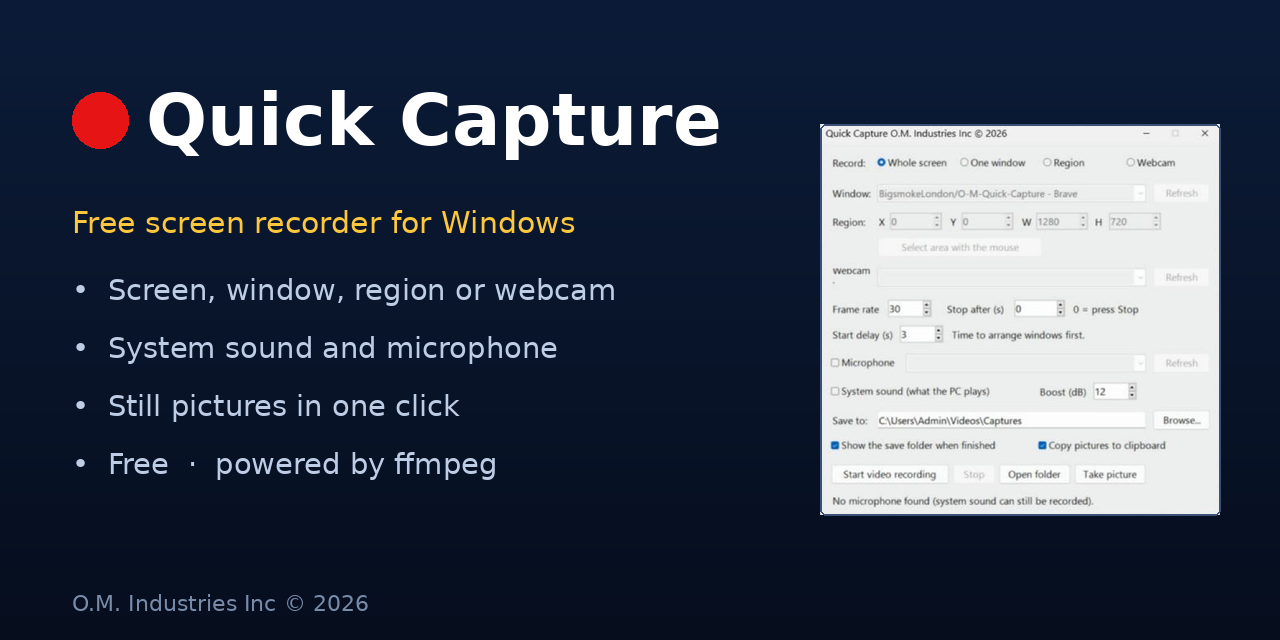
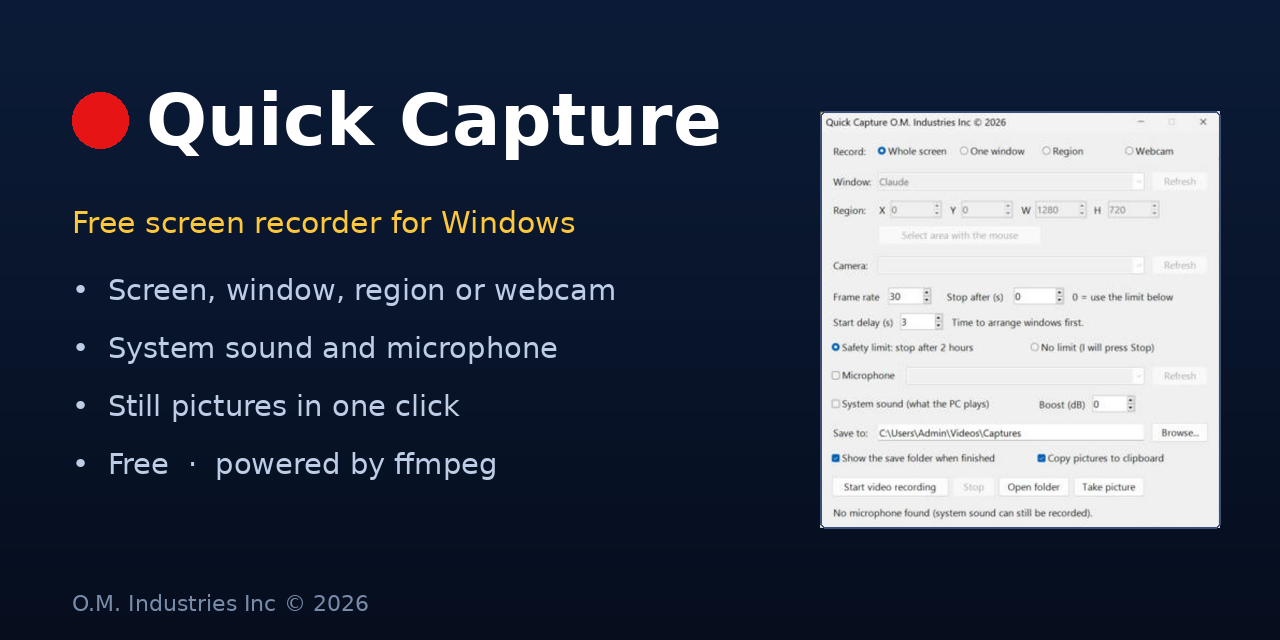
Refresh screenshots, demo GIF and social preview from 1.3.0; Camera label fix
Claude-Session: https://claude.ai/code/session_01Dkjs6KsXNgmfiwJKu1szHb

diff --git a/README.md b/README.md
@@ -12,6 +12,10 @@ From **O.M. Industries Inc**, the makers of [O.M. Video Studio](https://github.c
 |---|---|---|---|
 | [![Main window](docs/images/main-window.png)](docs/images/main-window.png) | [![One window](docs/images/one-window.png)](docs/images/one-window.png) | [![Region](docs/images/region.png)](docs/images/region.png) | [![System sound](docs/images/system-sound.png)](docs/images/system-sound.png) |
 
+| Safety limit | Red tray icon while recording |
+|---|---|
+| [![Safety limit](docs/images/safety-limit.png)](docs/images/safety-limit.png) | [![Tray icon](docs/images/tray-icon.png)](docs/images/tray-icon.png) |
+
 ## What it does
 
 - **Whole screen, One window, Region or Webcam.** For Region, press **Select area with the mouse**, drag over the area, and X, Y, width and height fill in. Window mode records the window's screen area, so it also works for modern apps such as Calculator and Settings that record black with other tools.
